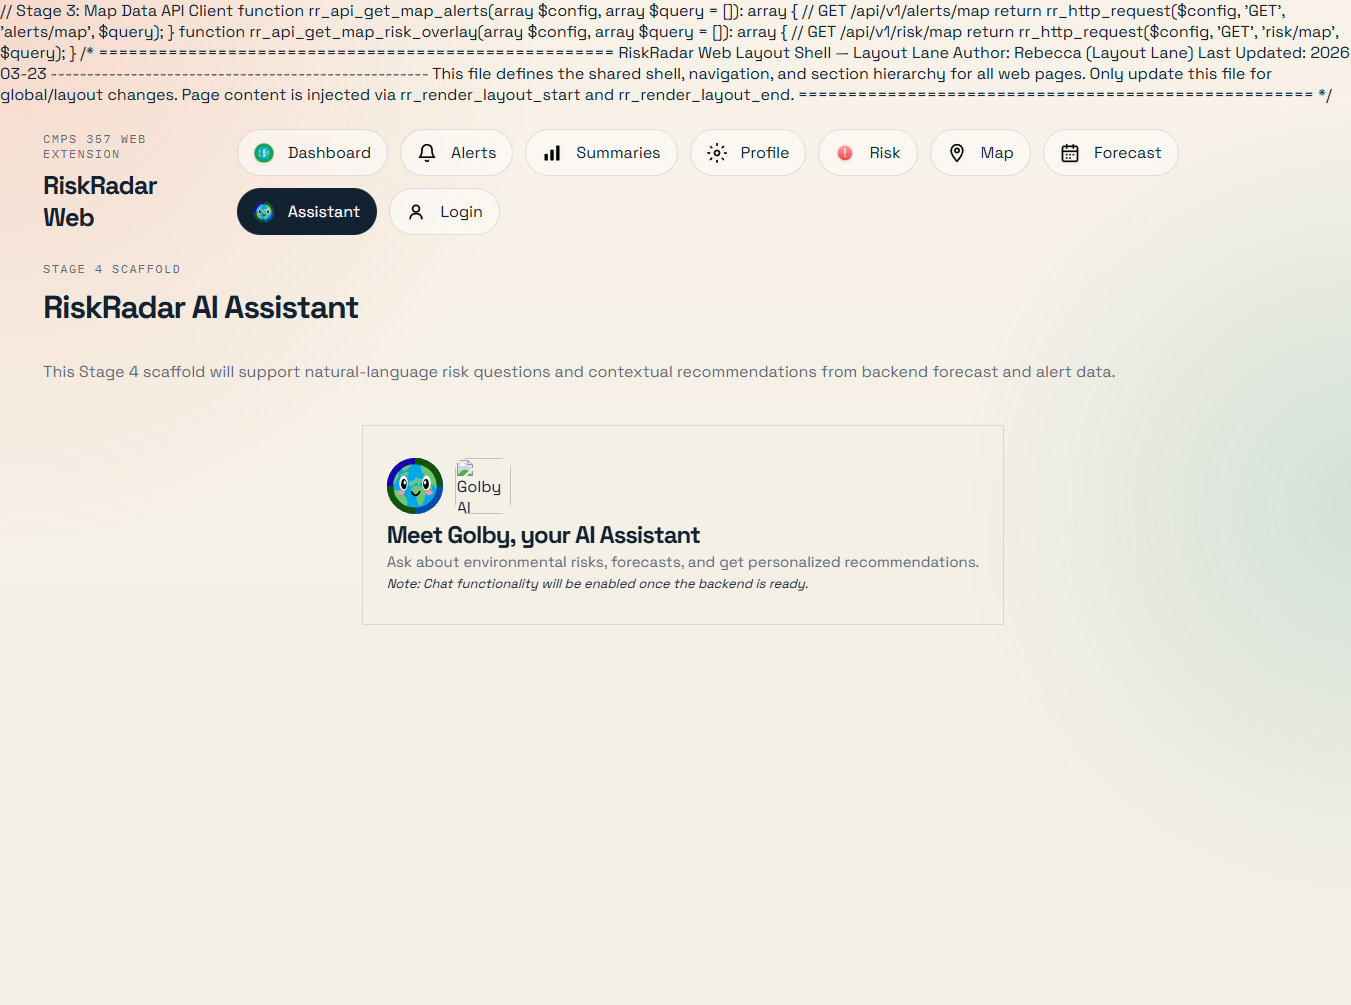
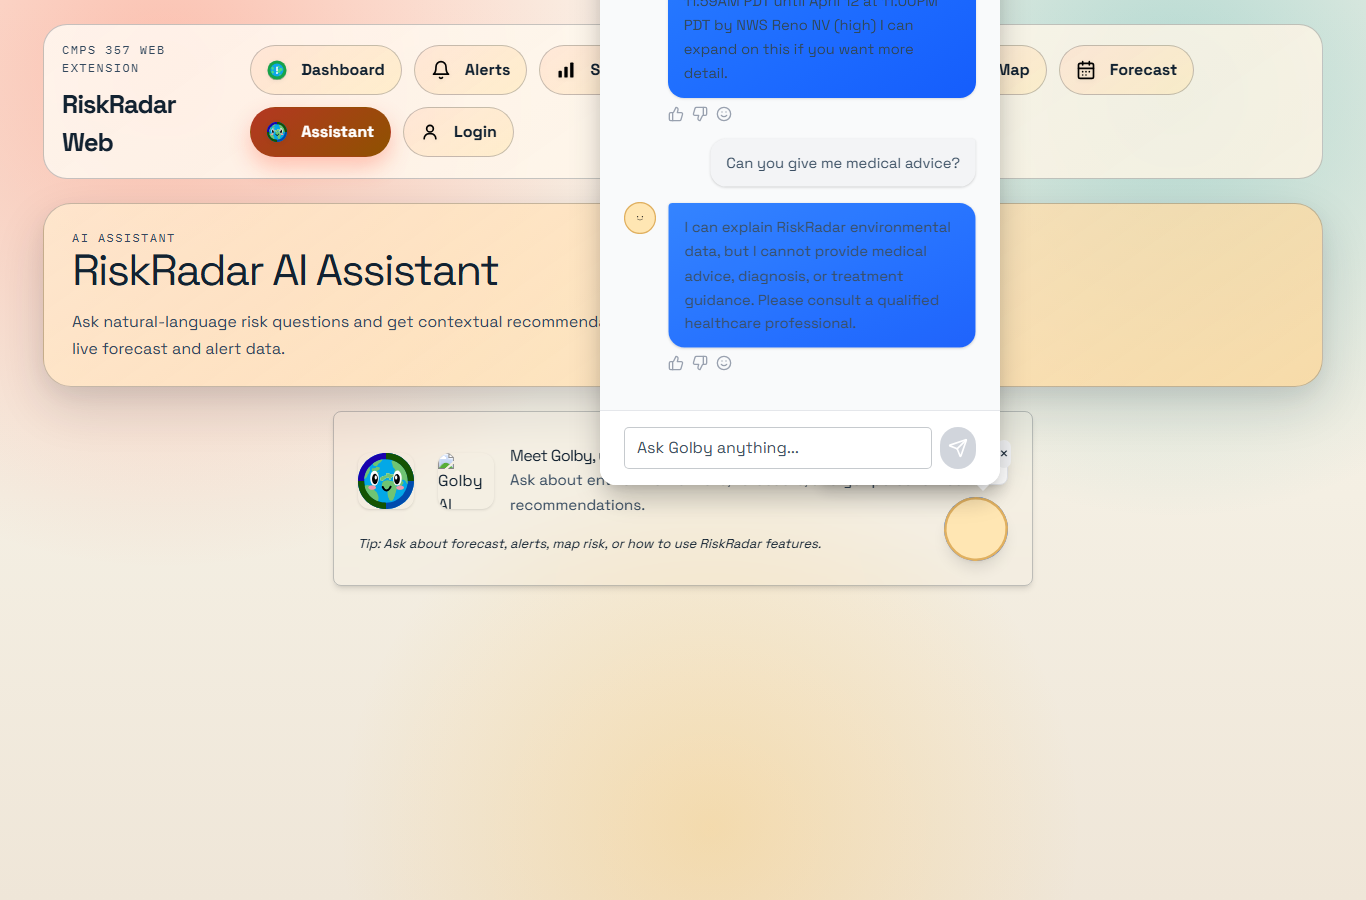
Demo 2

diff --git a/docs/TRANSCRIPT.md b/docs/TRANSCRIPT.md
@@ -2774,45 +2774,6 @@ Generating patch (61 lines) in [](file:///c%3A/Users/rebec/OneDrive/Documents/Gi
 ```
 
 
-Ran terminal command: @'
-
-### Transcript and Reflection Synchronization Command (2026-03-16) (Transcript Replay Copy)
-
-**Rebecca:** Update the TRANSCRIPT with an exact, word-for-word transcript of this entire session with the user being '''Rebecca'''
-
-Then update REFLECTION with a summarization of all developments made within this session, including this command
-
-**GitHub Copilot:** Iâ€™m going to append a new transcript block to [docs/TRANSCRIPT.md](docs/TRANSCRIPT.md) with verbatim session dialogue (using Rebecca as the user label), then add a matching reflection entry in [docs/REFLECTION.md](docs/REFLECTION.md) summarizing everything completed in this session including this command.
-'@ | Add-Content -Path 'docs/TRANSCRIPT.md'
-
-Ran terminal command: @'
-
-## Transcript, Reflection, and Authors Synchronization Session (2026-03-16)
-
-### Session Summary
-This session used **GitHub Copilot** to synchronize project governance documentation using transcript evidence and branch commit history. The work first updated `docs/REFLECTION.md` and `docs/AUTHORS.md` to align roles/contributions and reflection coverage with recorded activity, then updated `docs/TRANSCRIPT.md` to include a word-for-word session log with the user identified as **Rebecca**. This entry also documents the current command requesting transcript and reflection synchronization.
-
-### (1) Tool Used
-- **Tool name:** GitHub Copilot
-
-### (2) Components That Benefited
-- **Reflection completeness:** Added missing reflection sections for unsummarized transcript sessions (Stage 1 planning/setup, TODO creation, wireframe-accurate web planning).
-- **Author-role accuracy:** Revised `CMPS 357 Final Project Role` labels and contribution bullets in `docs/AUTHORS.md` to better match documented work history and branch-level commit evidence.
-- **Audit traceability:** Appended a dedicated transcript section for this session and command, preserving continuity between actions taken and recorded AI usage.
-
-### (3) How Output Was Reviewed/Verified
-- Section-heading coverage was validated by comparing transcript headings and existing reflection headings.
-- Contributor history was checked using personal branch logs (`origin/Max-Compeaux-Work-Branch`, `origin/Rebecca-Gautreaux-Work-Branch`) and author shortlog/commit evidence before editing `docs/AUTHORS.md`.
-- Post-edit readback verified the new transcript block and reflection section were appended cleanly and use consistent formatting.
-
-### (4) What Worked, What Needed Iteration, What Required Manual Implementation
-- **Worked immediately:** Detecting reflection coverage gaps, collecting branch evidence, and applying targeted updates to reflection and authorship documentation.
-- **Required multiple iterations / improvement:** Commit-history extraction needed multiple command passes to account for author-name/email variants and to isolate usable evidence.
-- **Required manual implementation:** Final editorial decisions on contribution phrasing granularity and future role/title adjustments remain team-owned.
-
----
-'@ | Add-Content -Path 'docs/REFLECTION.md'
-
 Searched for regex `^## Reflection and Authors Synchronization Session \(2026-03-16\)$|^## Transcript and Reflection Synchronization Command \(2026-03-16\)$` (`**/docs/TRANSCRIPT.md`), 2 results
 
 Searched for regex `^## Transcript, Reflection, and Authors Synchronization Session \(2026-03-16\)$` (`**/docs/REFLECTION.md`), 1 result
@@ -2959,62 +2920,6 @@ Read [](file:///c%3A/Users/rebec/OneDrive/Documents/GitHub/cmps-357-sp26-final-p
 Read [](file:///c%3A/Users/rebec/OneDrive/Documents/GitHub/cmps-357-sp26-final-project-cmps357-team-3/frontend/web/views/forecast.php)
 
 Created memory file [](file:///c%3A/Users/rebec/AppData/Roaming/Code/User/workspaceStorage/efc527fbc52ea141903e763507674dc7/GitHub.copilot-chat/memory-tool/memories/ZGI2YzM4YWYtYjMwYS00YTIzLThmYjktMjY0MDA5ZDczODk0/plan.md)
-
-### Plan: Wireframe-Accurate RiskRadar Web App (Transcript Replay Copy)
-
-This plan targets a structural and visual match to the web wireframe across all pages, with consistent cross-page cohesion and hybrid icon usage from the wireframe icon set. I saved this plan in session memory at /memories/session/plan.md for handoff continuity.
-
-**Steps**
-1. Baseline all pages with before-state screenshots at desktop, tablet, and mobile breakpoints to anchor parity checks.
-2. Build a wireframe mapping matrix that maps each wireframe region and icon to concrete templates/layout blocks in the web app.
-3. Define per-page acceptance criteria for section order, layout proportions, spacing rhythm, and icon placement.
-4. Update shared shell and navigation first in layout.php so all pages inherit the same wireframe framing.  
-*blocks all page-level work*
-5. Expand shared visual foundations in app.css: reusable panel, grid, heading, metadata, and icon-slot patterns for consistent parity.
-6. Implement hybrid icon strategy globally (PNG wireframe icons for explicit imagery/branding, CSS-native treatments for repetitive badges where wireframe intent is preserved).  
-*parallel with step 5*
-7. Align core functional pages to wireframe structure and visuals: dashboard.php, alerts.php, summaries.php, profile.php.  
-*depends on step 4*
-8. Align auth pages to the same visual system and wireframe structure: login.php, register.php.  
-*depends on step 4, parallel with step 7*
-9. Convert scaffolded/future pages into wireframe-accurate shells (without expanding staged functionality): risk.php, map.php, forecast.php, assistant.php.  
-*depends on step 4, parallel with steps 7 and 8*
-10. Create wireframe-accurate detail shells for alert_detail.php and summary_detail.php.  
-*depends on step 4, parallel with steps 7 to 9*
-11. Run a consistency sweep across all updated routes to remove spacing/typography/icon drift and ensure visual cohesion.
-12. Update project docs with wireframe alignment status, icon usage rules, and completion matrix tied to page routes.
-
-**Relevant files**
-- layout.php
-- app.css
-- dashboard.php
-- alerts.php
-- summaries.php
-- profile.php
-- login.php
-- register.php
-- risk.php
-- map.php
-- forecast.php
-- assistant.php
-- alert_detail.php
-- summary_detail.php
-- RiskRadar_Web_Wireframes.png
-- wireframe_icons
-- STAGES.md
-
-**Verification**
-1. Per-page wireframe parity checklist pass/fail for structure, visual hierarchy, spacing rhythm, and icon placement.
-2. Responsive checks at desktop/tablet/mobile breakpoints for every route in scope.
-3. Route smoke test across all public entry pages to confirm no include/template regressions.
-4. Functional sanity check on API-backed pages for loaded and fallback states.
-5. Accessibility spot checks: keyboard navigation, focus visibility, labels, and icon accessibility handling.
-
-**Decisions captured**
-- Scope includes all current web pages, including Risk, Map, Forecast, Assistant, and both detail pages.
-- Fidelity target is structural plus visual match with consistent cross-page cohesion.
-- Icon strategy is hybrid using assets from wireframe_icons plus CSS-native recurring treatments where appropriate.
-- Functional stage boundaries remain intact; this effort is UI/UX alignment, not backend contract changes.
 
 If you want, I can now refine this into an execution order by teammate role (layout, page templates, QA/docs) so implementation can run in parallel cleanly.
 

diff --git a/static/evidence/DEMO_REPORT.md b/static/evidence/DEMO_REPORT.md
@@ -1,12 +1,12 @@
 # Demo Evidence Report
 
-Generated: 2026-04-11T16:53:48.500Z
+Generated: 2026-04-13T04:18:06.094Z
 
 ## Run Summary
 
 - Base URL: http://127.0.0.1:8080
-- Started: 2026-04-11T16:53:40.217Z
-- Finished: 2026-04-11T16:53:47.786Z
+- Started: 2026-04-13T04:17:51.478Z
+- Finished: 2026-04-13T04:18:00.076Z
 - Overall Status: passed
 - Steps Executed: 6
 
@@ -14,12 +14,12 @@ Generated: 2026-04-11T16:53:48.500Z
 
 | Step | Name | Status | Duration (ms) | URL | Error |
 |---|---|---|---:|---|---|
-| 1 | Dashboard Overview | passed | 1619 | http://127.0.0.1:8080/index.php |  |
-| 2 | Personalized Risk Scoring | passed | 573 | http://127.0.0.1:8080/risk.php?user_id=2&radius_km=50 |  |
-| 3 | Smart Alerts Prioritization | passed | 545 | http://127.0.0.1:8080/smart_alerts.php?user_id=2&radius_km=100&limit=10 |  |
-| 4 | Interactive Risk Map | passed | 2690 | http://127.0.0.1:8080/map.php |  |
-| 5 | Forecast View | passed | 580 | http://127.0.0.1:8080/forecast.php |  |
-| 6 | AI Assistant View | passed | 1560 | http://127.0.0.1:8080/assistant.php |  |
+| 1 | Dashboard Overview | passed | 1133 | http://127.0.0.1:8080/index.php |  |
+| 2 | Personalized Risk Scoring | passed | 733 | http://127.0.0.1:8080/risk.php?user_id=2&radius_km=50 |  |
+| 3 | Smart Alerts Prioritization | passed | 718 | http://127.0.0.1:8080/smart_alerts.php?user_id=2&radius_km=100&limit=10 |  |
+| 4 | Interactive Risk Map | passed | 3646 | http://127.0.0.1:8080/map.php |  |
+| 5 | Forecast View | passed | 707 | http://127.0.0.1:8080/forecast.php |  |
+| 6 | AI Assistant View | passed | 1659 | http://127.0.0.1:8080/assistant.php |  |
 
 ## Captured Screenshots
 
@@ -28,6 +28,9 @@ Generated: 2026-04-11T16:53:48.500Z
 - demo_03_smart_alerts.png: Smart Alerts Prioritization (static/evidence/demo_screenshots/demo_03_smart_alerts.png)
 - demo_04_map.png: Interactive Risk Map (static/evidence/demo_screenshots/demo_04_map.png)
 - demo_05_forecast.png: Forecast View (static/evidence/demo_screenshots/demo_05_forecast.png)
+- demo_06a_assistant_response.png: Assistant reply rendered after sending a prompt (static/evidence/demo_screenshots/demo_06a_assistant_response.png)
+- demo_06b_assistant_feedback.png: Assistant feedback interaction complete (static/evidence/demo_screenshots/demo_06b_assistant_feedback.png)
+- demo_06c_assistant_guardrail.png: Assistant guardrail response rendered (static/evidence/demo_screenshots/demo_06c_assistant_guardrail.png)
 - demo_06_assistant.png: AI Assistant View (static/evidence/demo_screenshots/demo_06_assistant.png)
 
 ## Stage Coverage

diff --git a/docs/REFLECTION.md b/docs/REFLECTION.md
@@ -2,6 +2,23 @@
 
 ## Session Reflections
 
+# Stage 5 Frontend Contrast Accessibility Final Pass and Documentation Synchronization Session (2026-04-12)
+Summary:
+- Completed the final frontend polish sequence by combining color-rich styling with accessibility-first contrast hardening.
+- Tightened edge-case readability for small chips/pills/badges and strengthened keyboard focus visibility across shared and map-specific controls.
+- Kept implementation risk low by limiting all behavior changes to shared stylesheet updates in `frontend/web/public/assets/app.css`.
+- Synchronized all requested top-level documentation artifacts in chronological Stage 5 order.
+
+Why this was done:
+- To maintain a lively visual design without sacrificing readability and navigation clarity.
+- To address known contrast-risk surfaces (accent-heavy controls and small metadata chips) that impact accessibility quality.
+- To keep project history and governance docs aligned with implementation reality.
+
+How this improved the project:
+- Improved practical text readability on energetic color surfaces, including compact UI metadata elements.
+- Improved keyboard and focus discoverability, making page navigation clearer and more inclusive.
+- Preserved maintainability and low regression risk through CSS-scoped, token-driven refinements and synchronized documentation.
+
 # Stage 5 RiskRadar Top-Text Removal and Documentation Synchronization Session (2026-04-12)
 Summary:
 - Removed distracting, non-product text appearing at the top of RiskRadar pages by fixing PHP opening-tag/header placement in shared frontend files.

diff --git a/docs/AUTHORS.md b/docs/AUTHORS.md
@@ -96,6 +96,15 @@ Max Compeaux:
 
 ### Stage 5: Ongoing Maintenance, Advanced Features, and Review
 
+#### Stage 5 Frontend Contrast Accessibility Final Pass and Documentation Synchronization Session (2026-04-12)
+Rebecca Gautreaux:
+- Led final frontend appearance refinement from saturation updates through accessibility-focused contrast hardening.
+- Implemented edge-case small-text contrast improvements for chips/pills/badges and strengthened focus visibility for keyboard navigation.
+- Synchronized TODO/STAGES/README/TRANSCRIPT/REFLECTION/AUTHORS updates in chronological Stage 5 order.
+
+Max Compeaux:
+- No direct implementation changes in this session.
+
 #### Stage 5 RiskRadar Top-Text Removal and Documentation Synchronization Session (2026-04-12)
 Rebecca Gautreaux:
 - Identified and fixed shared frontend PHP scope/header leakage that rendered distracting raw text at the top of RiskRadar pages.